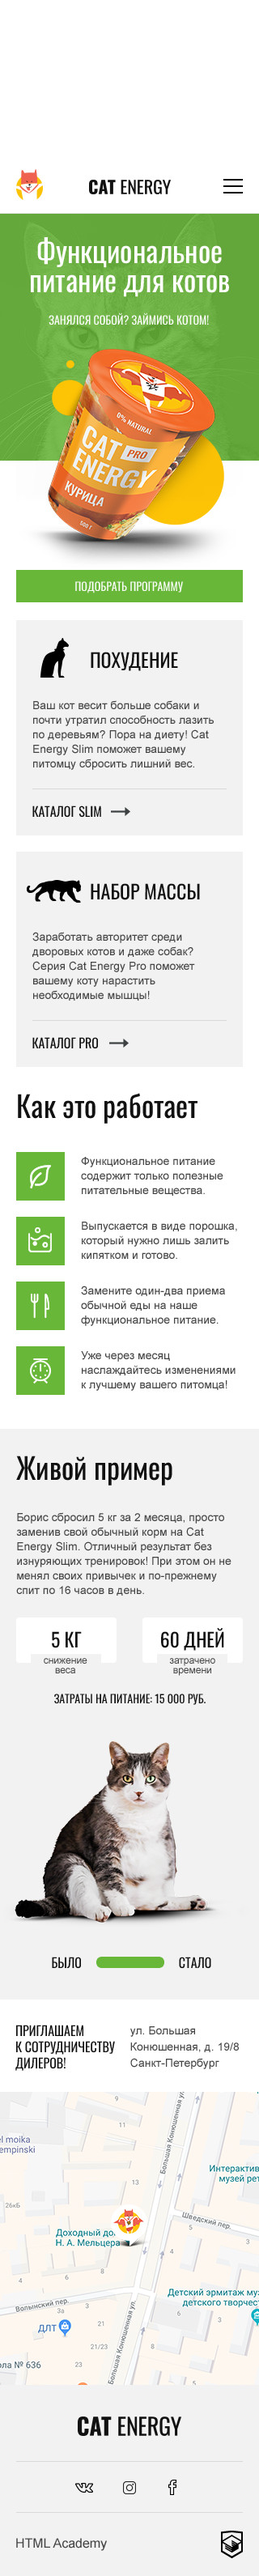
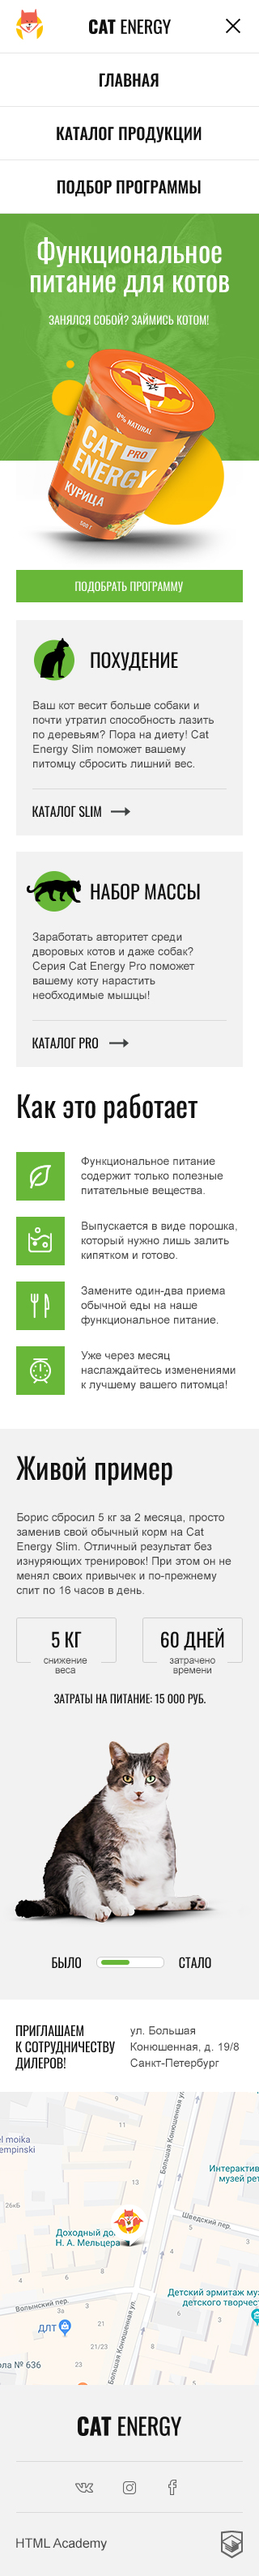
Устанавливает размеры для крупных сеточных блоков в index и catalog

diff --git a/source/catalog.html b/source/catalog.html
@@ -210,7 +210,7 @@
             <p class="show-more__title">Показать еще 100500 товаров</p>
             <p class="show-more__text">На самом деле вкусов гораздо больше!</p>
             <!-- Непонятно, что должно открываться и как: -->
-            <button class="btn show-more__btn" type="button">Показать всё</button>
+            <button class="btn show-more__btn" type="button">Показать все</button>
           </div>
 
         </section>
@@ -252,10 +252,10 @@
             </li>
           </ul>
 
-          <div class="present">
+          <div class="additionaly__present">
             <!-- Декоративное изображение фона -->
-            <p class="present__text">Закажите все и получите для кота подарок!</p>
-            <img class="present__icon" src="./img/icon-gift.svg" width="55" height="60" alt="Символическое обозначение подарка" >
+            <p class="additionaly__present-text">Закажите все и получите для кота подарок!</p>
+            <img class="additionaly__present-icon" src="./img/icon-gift.svg" width="55" height="60" alt="Символическое обозначение подарка" >
           </div>
 
         </section>

diff --git a/source/sass/blocks/additionaly.scss b/source/sass/blocks/additionaly.scss
@@ -1,21 +1,27 @@
 .additionaly {
+
   outline: 1px solid yellow;
 
   &__title {
     @include textomizer(regular, 24px);
+    margin-top: 28px;
+    margin-bottom: 34px;
   }
 
   &__list {
     @include flexible();
     flex-direction: column;
+    min-height: 516px;
     padding: 0;
+    margin: 0;
     list-style-type: none;
+    border-top: 1px solid #cdcdcd;
+    outline: 1px dashed red;
   }
 
   &__item {
     @include flexible();
-
-    border-bottom: 2px solid #cdcdcd;
+    border-bottom: 1px solid #cdcdcd;
   }
 
   &__item-title {
@@ -34,5 +40,18 @@
     @include textomizer(regular, 16px, 20px, uppercase);
     color: #ffffff;
     background-color: #68b738;
+  }
+
+  &__present {
+    min-height: 363px;
+    background: url("../../img/gift-photo-mobile@1x.jpg");
+    background-repeat: no-repeat;
+  }
+
+  &__present-text {
+    margin-top: 0;
+
+    @include textomizer(regular, 16px, 20px);
+    color: #ffffff;
   }
 }

diff --git a/source/form.html b/source/form.html
@@ -31,10 +31,8 @@
 
       <main class="program-selection">
 
-        <div class="program-selection__intro">
-          <h1 class="program-selection__title">Подбор программы</h1>
-          <p class="program-selection__text">Заполните анкету и мы подберем программу питания для вашего кота</p>
-        </div>
+        <h1 class="program-selection__title">Подбор программы</h1>
+        <p class="program-selection__text">Заполните анкету и мы подберем программу питания для вашего кота</p>
 
         <form class="form" action="https://echo.htmlacademy.ru" method="get">
 

diff --git a/source/sass/blocks/show-more.scss b/source/sass/blocks/show-more.scss
@@ -1,21 +1,17 @@
 .show-more {
+  min-height: 209px;
+
   &__title {
-    font-size: 16px;
-    font-weight: normal;
-    line-height: 20px;
-    text-transform: uppercase;
+    @include textomizer(regular, 16px, 20px, uppercase);
   }
 
   &__text {
-    font-size: 12px;
-    font-weight: normal;
-    line-height: 20px;
+    @include textomizer(arial, 12px, 16px);
   }
 
   &__btn {
-    font-size: 16px;
-    font-weight: normal;
-    line-height: 20px;
-    text-transform: uppercase;
+    @include textomizer(regular, 16px, 20px, uppercase);
+    border: none;
+    background-color: #f2f2f2;
   }
 }

diff --git a/source/sass/blocks/intro.scss b/source/sass/blocks/intro.scss
@@ -1,5 +1,8 @@
 .intro {
+  min-height: 480px;
   text-align: center;
+  background: url("../../img/index-background-mobile@1x.jpg");
+  background-repeat: no-repeat;
   outline: 0.5px dashed green;
 
   &__presentation {
@@ -8,10 +11,12 @@
 
   &__title {
     @include textomizer(regular, 36px);
+    color: #ffffff;
   }
 
   &__text {
     @include textomizer(regular, 14px, 14px, uppercase);
+    color: #ffffff;
   }
 
   &__btn {

diff --git a/source/sass/blocks/socials.scss b/source/sass/blocks/socials.scss
@@ -1,8 +1,9 @@
 .socials {
+  min-height: 236px;
   background-color: #f2f2f2;
 
   &__logo-wrapper {
-    border-bottom: 2px solid #d9d9d9;
+    border-bottom: 1px solid #d9d9d9;
   }
 
   &__list {
@@ -10,7 +11,7 @@
     flex-direction: row;
     padding: 0;
     list-style-type: none;
-    border-bottom: 2px solid #d9d9d9;
+    border-bottom: 0.5px solid #d9d9d9;
   }
 
   &__link {

diff --git a/source/sass/blocks/header.scss b/source/sass/blocks/header.scss
@@ -1,11 +1,20 @@
 .header {
   @include flexible();
   width: 100%;
+  min-height: 264px;
   padding-top: 13px;
   outline: 0.5px solid red;
 
   &__icon-logo {
     display: block;
     outline: 0.5px dashed blue;
+  }
+
+  &__burger {
+    width: 21px;
+    height: 21px;
+    border: none;
+    background: url("../../img/icon-close.svg");
+    background-repeat: no-repeat;
   }
 }

diff --git a/source/sass/blocks/goods.scss b/source/sass/blocks/goods.scss
@@ -1,12 +1,16 @@
 .goods {
-  outline: 1px dashed green;
+  outline: 1px dashed red;
 
   &__list {
     @include flexible();
     flex-direction: column;
+    min-height: 1464px;
     padding: 0;
+    margin: 0;
     text-align: center;
     list-style-type: none;
+    border-top: 1px solid #ededed;
+    border-bottom: 1px solid #ededed;
   }
 
   &__item {

diff --git a/source/sass/blocks/program-selection.scss b/source/sass/blocks/program-selection.scss
@@ -1,5 +1,13 @@
 .program-selection {
-  &__text {
+  &__title {
     @include textomizer(regular, 36px, 60px);
+    margin-top: 15px;
+    margin-bottom: 17px;
+  }
+
+  &__text {
+    @include textomizer(regular, 14px, 18px, uppercase);
+    margin-top: 25px;
+    margin-bottom: 17px;
   }
 }

diff --git a/source/sass/style.scss b/source/sass/style.scss
@@ -20,6 +20,7 @@
 @import "./blocks/navigation.scss";
 @import "./blocks/pet.scss";
 @import "./blocks/plan.scss";
+@import "./blocks/program-selection.scss";
 @import "./blocks/show-more.scss";
 @import "./blocks/socials.scss";
 @import "./blocks/strategy.scss";

diff --git a/source/sass/blocks/advantage.scss b/source/sass/blocks/advantage.scss
@@ -1,9 +1,9 @@
 .advantage {
-
-  outline: 0.5px dashed green;
+  min-height: 447px;
+  // outline: 0.5px dashed green;
 
   &__title {
-    @include textomizer(regular, 36px, 60px, uppercase);
+    @include textomizer(regular, 36px, 60px);
   }
 
   &__list {

diff --git a/source/sass/blocks/catalog.scss b/source/sass/blocks/catalog.scss
@@ -3,9 +3,11 @@
   flex-direction: column;
   width: 100%;
   text-align: center;
-  outline: 0.5px solid blue;
 
   &__title {
+    margin-top: 15px;
+    margin-bottom: 28px;
+
     @include textomizer(regular, 36px, 60px);
   }
 }
